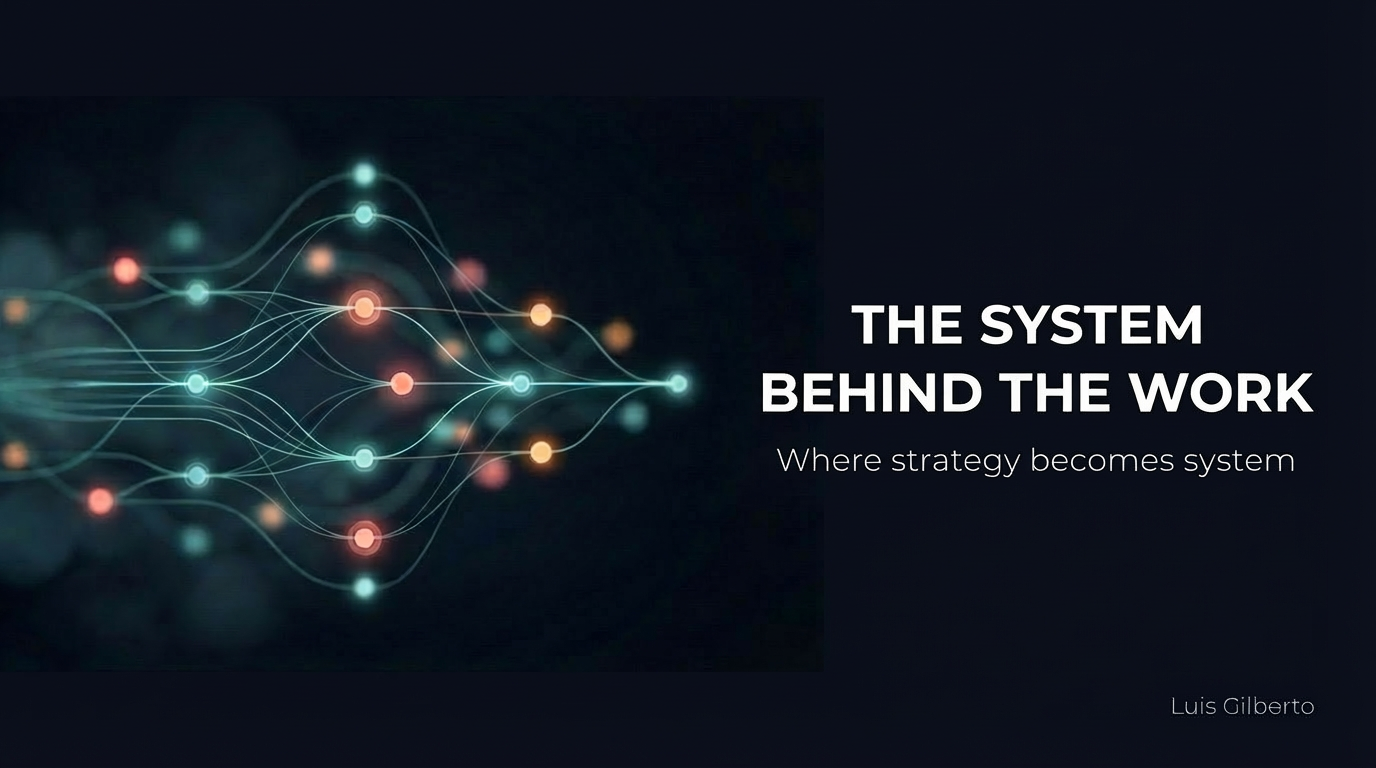
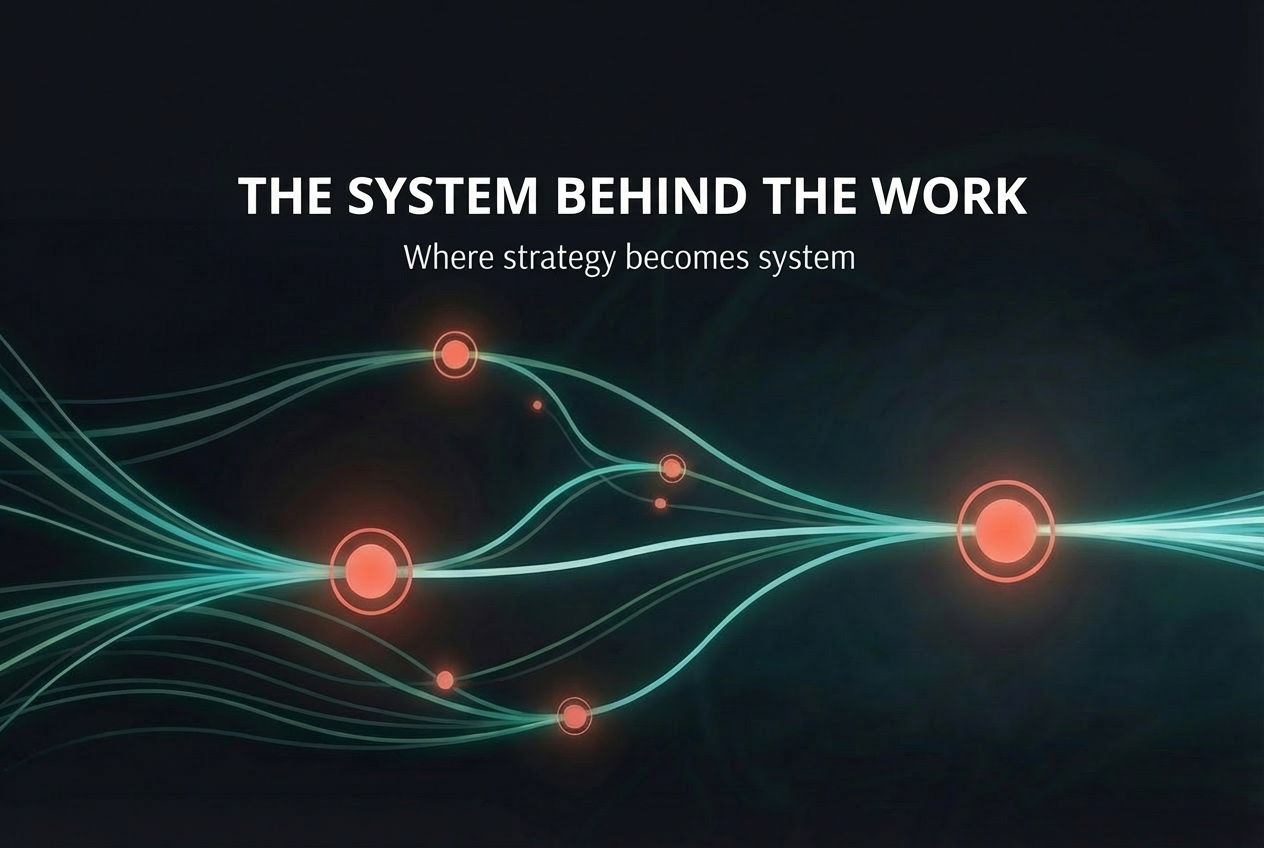
feat: update Open Graph preview image to new version with cache buster

diff --git a/index.html b/index.html
@@ -20,7 +20,7 @@
   <meta property="og:url" content="https://www.luis-gilberto.com">
   <meta property="og:title" content="Luis Gilberto — The System Behind the Work">
   <meta property="og:description" content="Explore the Strategic Operating System, frameworks, and ideas behind Luis Gilberto’s design-led work for high-growth teams at Microsoft and beyond.">
-  <meta property="og:image" content="https://www.luis-gilberto.com/assets/images/og/og-preview.png?v=2026">
+  <meta property="og:image" content="https://www.luis-gilberto.com/assets/images/og/og-preview.png?v=v2">
   <meta property="og:image:width" content="1200">
   <meta property="og:image:height" content="630">
 
@@ -29,10 +29,10 @@
   <meta name="twitter:url" content="https://www.luis-gilberto.com">
   <meta name="twitter:title" content="Luis Gilberto — The System Behind the Work">
   <meta name="twitter:description" content="Explore the Strategic Operating System, frameworks, and ideas behind Luis Gilberto’s design-led work for high-growth teams at Microsoft and beyond.">
-  <meta name="twitter:image" content="https://www.luis-gilberto.com/assets/images/og/og-preview.png?v=2026">
-  <link rel="image_src" href="https://www.luis-gilberto.com/assets/images/og/og-preview.png?v=2026">
-  <meta itemprop="image" content="https://www.luis-gilberto.com/assets/images/og/og-preview.png?v=2026">
-  <meta name="image" content="https://www.luis-gilberto.com/assets/images/og/og-preview.png?v=2026">
+  <meta name="twitter:image" content="https://www.luis-gilberto.com/assets/images/og/og-preview.png?v=v2">
+  <link rel="image_src" href="https://www.luis-gilberto.com/assets/images/og/og-preview.png?v=v2">
+  <meta itemprop="image" content="https://www.luis-gilberto.com/assets/images/og/og-preview.png?v=v2">
+  <meta name="image" content="https://www.luis-gilberto.com/assets/images/og/og-preview.png?v=v2">
   
   <link rel="preconnect" href="https://fonts.googleapis.com">
   <link rel="preconnect" href="https://fonts.gstatic.com" crossorigin>
